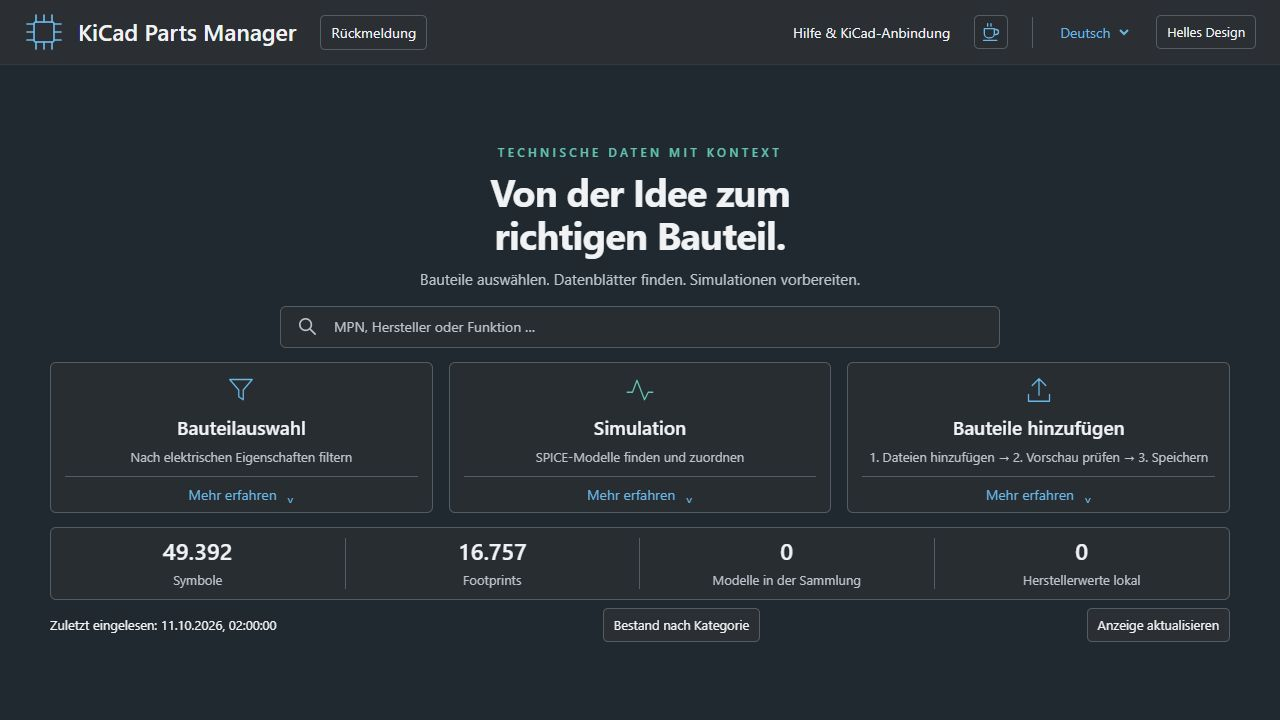
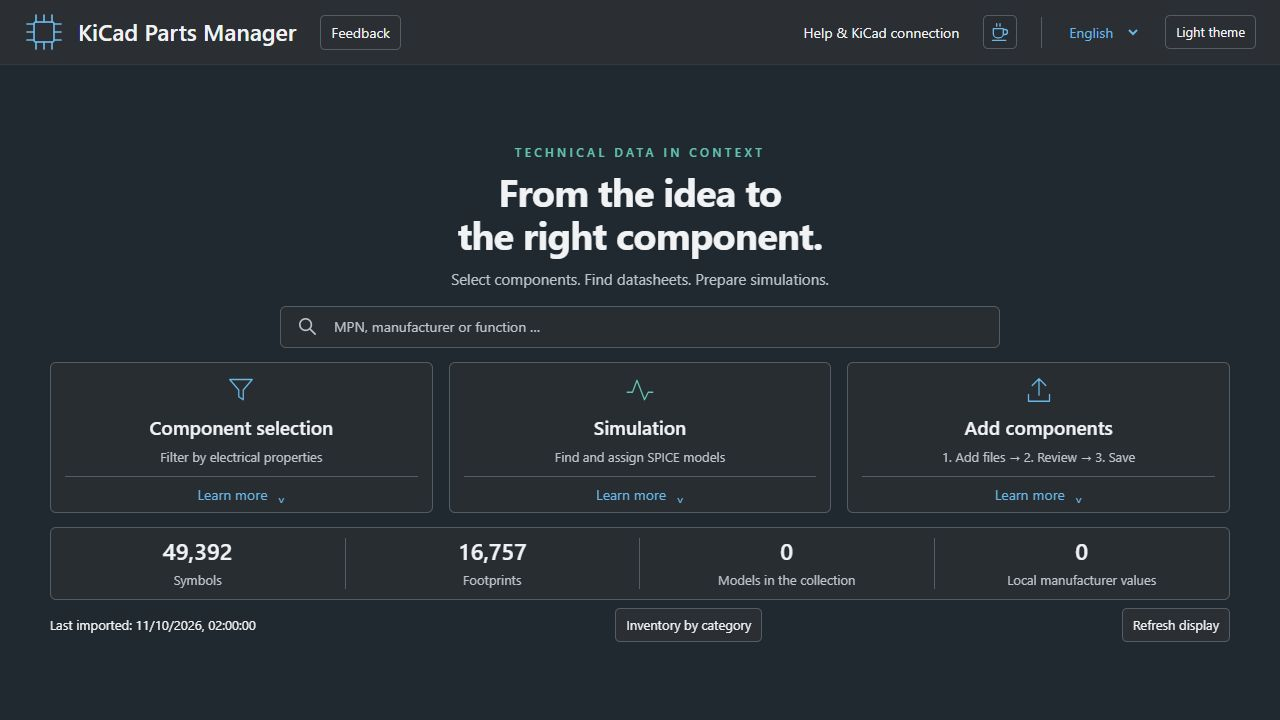
Use English README and dark homepage screenshot

diff --git a/README.md b/README.md
@@ -1,30 +1,28 @@
 # KiCad Parts Manager – Windows Beta 1
 
-Elektronische Bauteile für KiCad schneller finden, auswählen und pflegen: Suche nach Werten und Bauform, Kategorien, elektrische Filter, Symbol-/Footprint-Vorschau, Dateiimport und lokale SIM-Zuordnung. KiCad Parts Manager verbindet Bibliotheksdaten mit einer übersichtlichen Bauteilauswahl. Er ersetzt weder KiCad noch die Prüfung des Herstellerdatenblatts.
-
 Find, select and organise electronic parts for KiCad using electrical parameters, categories and symbol/footprint previews. Import component files and assign local SPICE models with explicit pin mapping. No runtime AI, cloud account or central database is required.
 
-![KiCad Parts Manager – Startseite im dunklen Design](docs/screenshots/startpage-dark.jpg)
+![KiCad Parts Manager – homepage in dark mode](docs/screenshots/startpage-dark.jpg)
 
-## Windows: herunterladen und starten / Download and start
+## Windows: download and start
 
-**[Vollständiges Windows-Paket mit Release-DB herunterladen](https://github.com/HaraldStraub/kicad-parts-manager-public/releases/download/v0.1.0-beta.1/KiCad-Parts-Manager-0.1.0-beta.1-Windows.zip)** · [Alle Downloads und SHA256](https://github.com/HaraldStraub/kicad-parts-manager-public/releases/tag/v0.1.0-beta.1)
+**[Download the complete Windows package with Release-DB](https://github.com/HaraldStraub/kicad-parts-manager-public/releases/download/v0.1.0-beta.1/KiCad-Parts-Manager-0.1.0-beta.1-Windows.zip)** · [All downloads and SHA256 checksums](https://github.com/HaraldStraub/kicad-parts-manager-public/releases/tag/v0.1.0-beta.1)
 
-1. Python ab 3.11 und KiCad installieren. Geprüft: Windows 11, Python 3.14, KiCad 10.0.6; Quelltests zusätzlich mit Python 3.13. Andere Konfigurationen können abweichen.
-2. Das ZIP vollständig in einen neuen beschreibbaren Ordner entpacken, z.B. `Dokumente\KiCad-Parts-Manager`. Nicht direkt im ZIP starten.
-3. `Start-KiCad-Parts-Manager.cmd` doppelklicken. Die erste Einrichtung erstellt eine eigene Python-Umgebung und benötigt Internet für Abhängigkeiten. Der Browser öffnet das lokale Programm.
-4. `Desktop-Verknuepfung-erstellen.cmd` ausführen. Damit lässt sich das Programm nach Schließen des Browsers wieder öffnen.
-5. Für die enthaltenen Bibliotheken und KiCad-Projektanbindung die [Installationsanleitung](docs/INSTALLATION.md) befolgen. SQLite-ODBC ist für CERN-Datenbankbibliotheken separat nötig; zusätzliche Installation kann Adminrechte benötigen.
+1. Install Python 3.11 or later and KiCad. Tested with Windows 11, Python 3.14 and KiCad 10.0.6; source tests also run with Python 3.13. Other configurations may behave differently.
+2. Extract the entire ZIP into a new writable folder, such as `Documents\KiCad-Parts-Manager`. Do not start the application inside the ZIP.
+3. Double-click `Start-KiCad-Parts-Manager.cmd`. First setup creates a separate Python environment and needs internet access to download dependencies. The browser opens the local application.
+4. Run `Desktop-Verknuepfung-erstellen.cmd` to create a desktop shortcut. Use it to reopen the application after closing the browser.
+5. Follow the [installation guide](docs/INSTALLATION.md) to connect the included libraries and your KiCad project. SQLite ODBC is a separate requirement for CERN database libraries; installing additional software may require administrator rights.
 
 End users need the complete Windows ZIP above. GitHub **Code → Download ZIP** contains sources only, without the Release-DB. Extract into a writable folder, run the Start CMD and optionally create the desktop shortcut. Python/KiCad are separate prerequisites; first setup downloads dependencies into a local venv. Instructions and uninstall/data retention: [INSTALLATION.md](docs/INSTALLATION.md).
 
-## Was enthalten ist / Included data
+## Included data
 
-**Release-DB:** 66,149 library catalog entries: 49,392 symbols/parts and 16,757 standalone footprints from CERN, KiCad, SparkFun, DigiKey, DigiKey Partner and Seeed. Eight synthetic demonstration parts and illustrative models are separate examples. The maintainer's **Privat-DB**, personal imports and private Git history are excluded. No direct Würth manufacturer collection or additional vendor PDF/3D/SIM collections are bundled. Parts named after manufacturers may occur in the independently licensed open libraries.
+**Release-DB:** 66,149 library catalog entries: 49,392 symbols/parts and 16,757 standalone footprints from CERN, KiCad, SparkFun, DigiKey, DigiKey Partner and Seeed. Eight synthetic demonstration parts and illustrative models are separate examples. The maintainer's **private database**, personal imports and private Git history are excluded. No direct Würth manufacturer collection or additional vendor PDF/3D/SIM collections are bundled. Parts named after manufacturers may occur in the independently licensed open libraries.
 
-Alle enthaltenen Quellen behalten ihre eigenen Lizenzen und Herkunftsnachweise. Native Bibliotheksdateien liefern Vorschauen bei Bedarf. Anwender pflegen ihren eigenen lokalen Bestand; es gibt keine zentrale öffentliche Datenbank.
+All included sources retain their own licences and attribution. Native library files provide previews on demand. Users maintain their own local collection; there is no central public database.
 
-## Möglichkeiten und Grenzen / Features and limitations
+## Features and limitations
 
 - Search words in any order; electrical filters, numerical sorting and category selection.
 - Import ZIP/symbol/footprint/PDF/STEP/SPICE files, review the proposed category and enter parameters. Existing parts can be supplemented; duplicates are identified. No automatic guessing of ambiguous pins.
@@ -36,12 +34,12 @@ Known beta limits: 55 upstream footprint references are missing; generic symbols
 
 Updates: back up your own data and extract a new package separately. Never overwrite your own database with the Release-DB. [Release notes](RELEASE_NOTES.md), [security reporting](SECURITY.md), [contributing](CONTRIBUTING.md).
 
-## Lizenzen und Prüfung / Licenses and validation
+## Licences and validation
 
-Program code: **GPL-3.0-only**, [LICENSE](LICENSE). Libraries retain separate rights: [third-party notices](THIRD_PARTY_NOTICES.md), included source manifests and license files. [Disclaimer DE/EN](DISCLAIMER.md). This is an independent project; no library-provider endorsement or electrical guarantee is implied.
+Program code: **GPL-3.0-only**, [LICENSE](LICENSE). Libraries retain separate rights: [third-party notices](THIRD_PARTY_NOTICES.md), included source manifests and license files. [Disclaimer in German and English](DISCLAIMER.md). This is an independent project; no library-provider endorsement or electrical guarantee is implied.
 
 Baseline: 408 Python and 142 JavaScript tests passed (three optional skips); isolated setup/import/reimport/data persistence/shortcut/uninstall preview tested. Full test-candidate startup: 15.22 s first cache, 2.92 s cached; timing depends on hardware. This was isolated testing on the development computer, not acceptance on a second clean Windows PC. Online CI and release checks are visible on GitHub.
 
 Maintainer: [Harald Straub](https://github.com/HaraldStraub). Matching sources are in this repository and the source ZIP accompanying the release.
 
-Geplante Ergänzungen / Planned improvements: [Backlog](docs/BACKLOG.md).
+Planned improvements: [Backlog](docs/BACKLOG.md).
